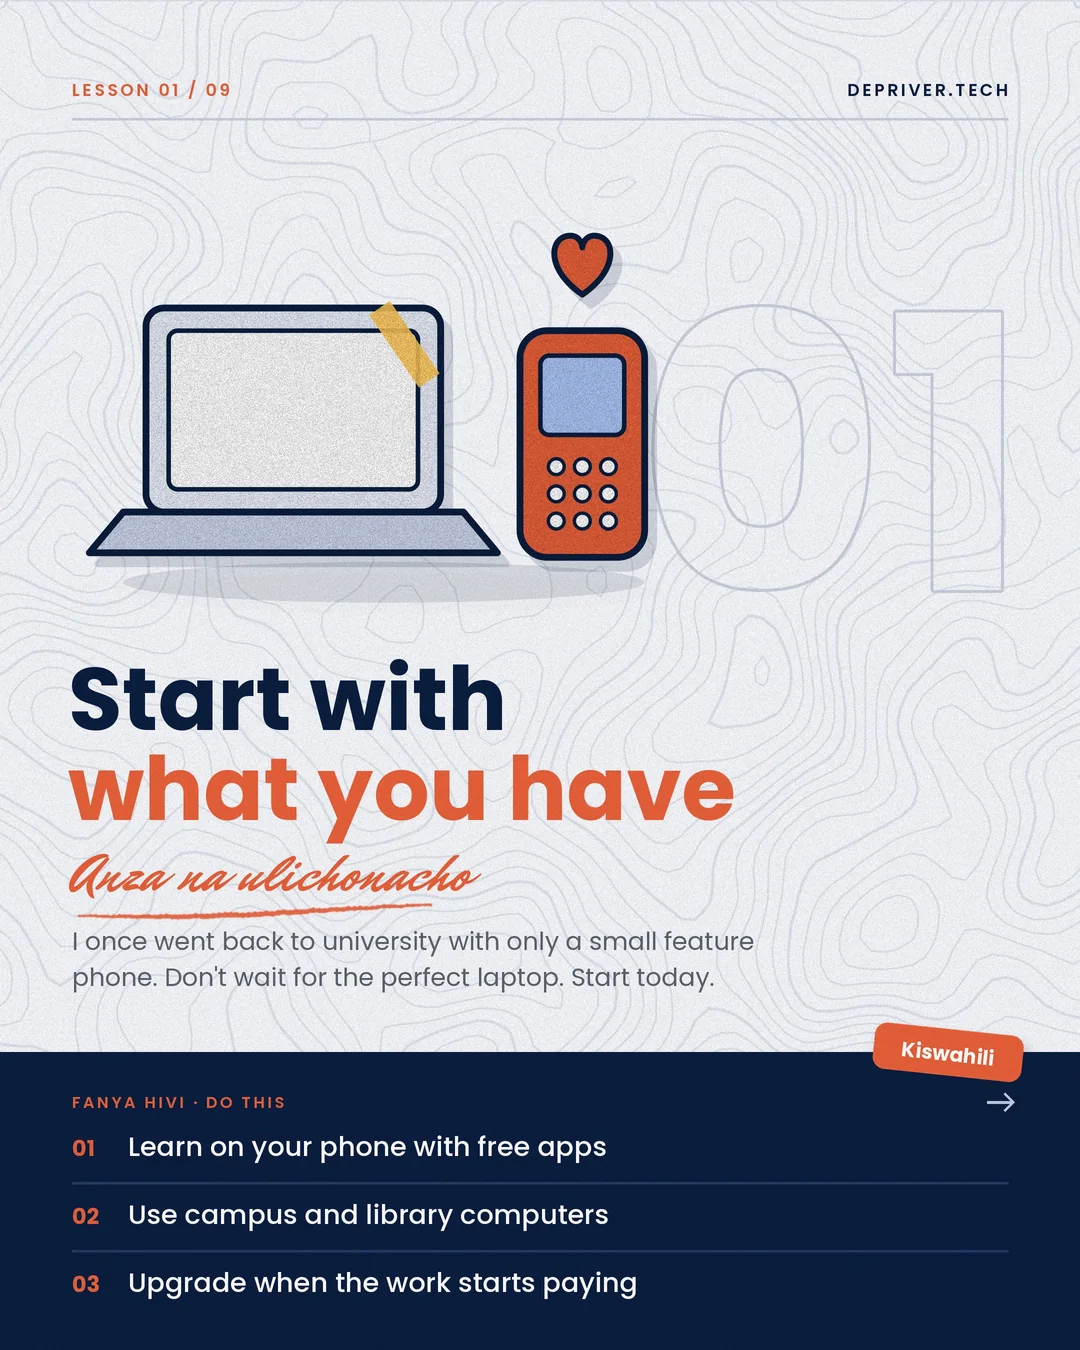
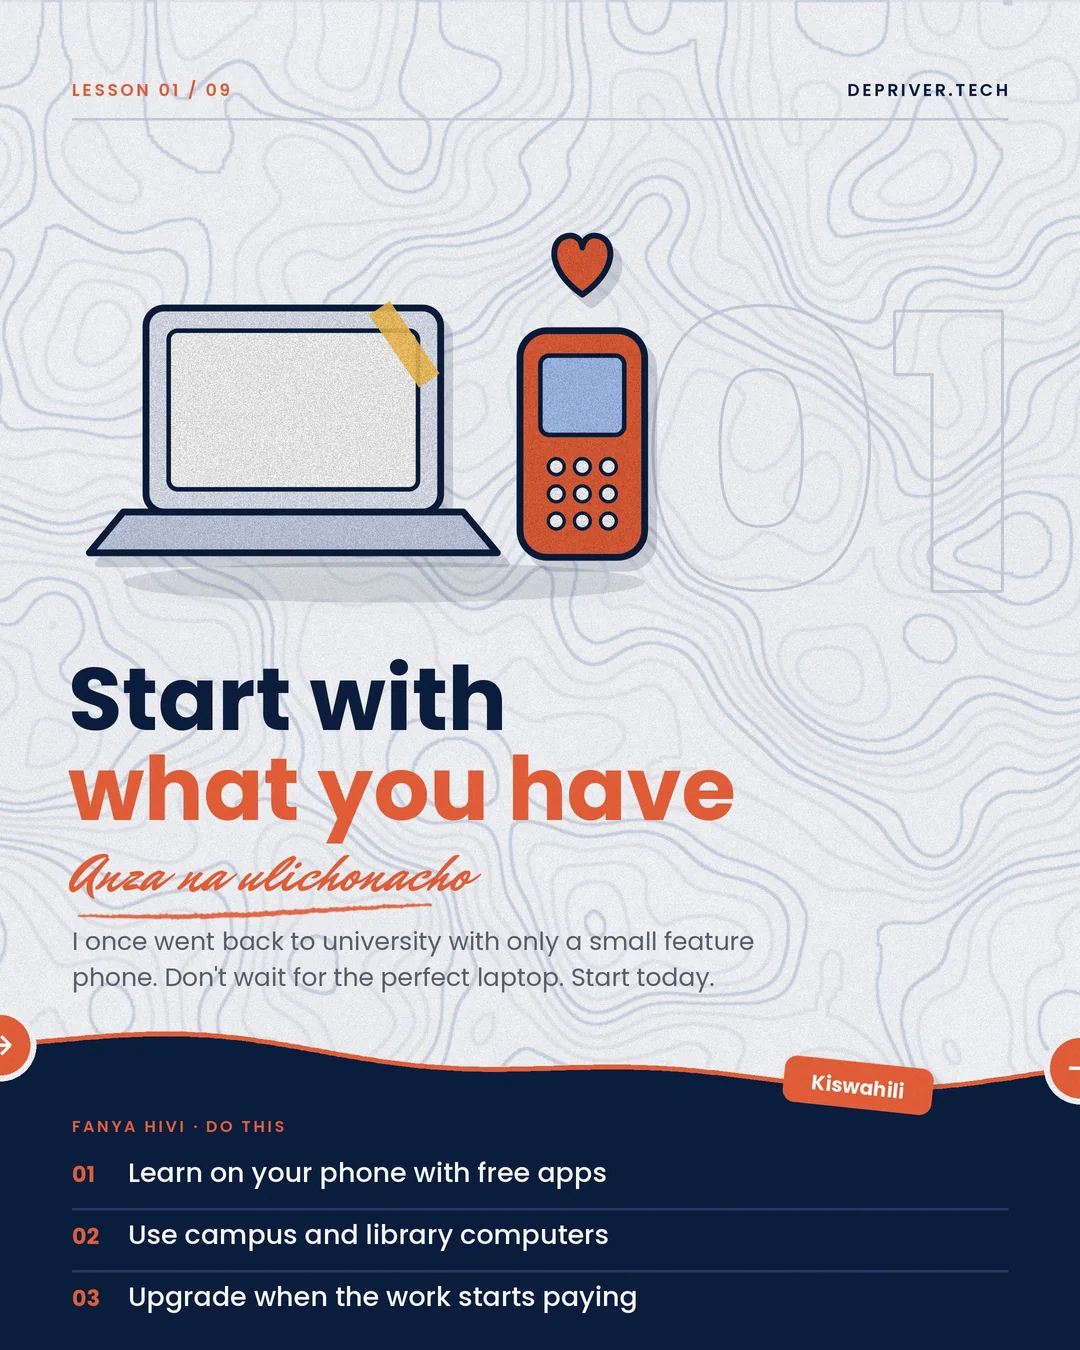
Tech advice carousel: seamless panorama across slides
Continuous contour terrain, one navy wave horizon running through every slide,
and arrow badges centred on each seam so neighbouring slides join up when swiped.

diff --git a/studio/tech-advice-i-learnt-the-hard-way/make.py b/studio/tech-advice-i-learnt-the-hard-way/make.py
@@ -49,17 +49,22 @@ assert len(LESSONS) + 2 == TOTAL
 POST_URL = "depriver.tech/blog/tech-advice-i-learnt-the-hard-way"
 
 
-def page(label_left, label_right="DEPRIVER.TECH"):
+BASE = 1060                                          # the navy horizon (one wave across all slides)
+
+
+def page(n, label_left, label_right="DEPRIVER.TECH"):
     s = Slide()
-    paper(s)
+    panorama_paper(s, n, TOTAL)                      # contour lines continue from slide to slide
     smallcaps(s, M, 96, label_left, 17, ORANGE)
     smallcaps(s, W - M, 96, label_right, 17, NAVY, anchor="right")
     hairline(s, M, W - M, 118, RULE)
     return s
 
 
-def navy_block(s, y0):
-    s.rect(0, y0, W, H, NAVY)
+def horizon(s, n):
+    """Continuous navy wave + seam badges that join neighbouring slides."""
+    navy_wave(s, n, BASE)
+    seam_nodes(s, n, TOTAL, BASE)
 
 
 def arrow(s, x, y, color=WHITE_T, w=3.4, size=12):
@@ -68,16 +73,16 @@ def arrow(s, x, y, color=WHITE_T, w=3.4, size=12):
 
 
 # ── 1 · cover ────────────────────────────────────────────────────────────────────────────────────
-s = page("A field guide · 9 lessons")
+s = page(1, "A field guide · 9 lessons")
 outline_text(s, W + 40, 1130, "9", f(BOLD, 980), stroke=3, color=RULE, anchor="rs")
 for i, (t, c) in enumerate([("Tech advice", NAVY), ("I learnt the", NAVY), ("hard way.", ORANGE)]):
     s.text(M - 6, 300 + i * 124, t, f(BOLD, 122), c)
 s.text(M, 654, "Mambo niliyojifunza kwa njia ngumu", f(SIG, 62), ORANGE)
 swash(s, M + 10, M + 560, 684, ORANGE, 6)
-s.para(M, 760, "Nine lessons from my journey, from a village classroom in Kagera to writing software in Mbeya.", f(REG, 27), 480, 40, GREY)
-navy_block(s, 1170)
-art = print_art("rocket", k(640))
-paste_print(s, art, 400, 1170 - art.height / K + 70)      # laptop sits on, and breaks into, the navy block
+s.para(M, 760, "Nine lessons from my journey, from a village classroom in Kagera to writing software in Mbeya.", f(REG, 27), 380, 40, GREY)
+horizon(s, 1)
+art = print_art("rocket", k(580))
+paste_print(s, art, 470, wave_y(760) - art.height / K + 66)   # laptop sits on, and breaks into, the navy wave
 s.text(M, 1262, "Swipe for all 9", f(SEMI, 30), WHITE_T)
 arrow(s, M + s.width("Swipe for all 9", f(SEMI, 30)) + 34, 1251)
 smallcaps(s, W - M, 1262, "Kwa wote kwenye tech", 16, SOFT, anchor="right")
@@ -88,7 +93,7 @@ s.save(1)
 # ── 2–10 · lessons ───────────────────────────────────────────────────────────────────────────────
 for i, (art_key, t1, t2, sw, body, todo) in enumerate(LESSONS):
     n = i + 2
-    s = page(f"Lesson {i + 1:02d} / 09")
+    s = page(n, f"Lesson {i + 1:02d} / 09")
     outline_text(s, W - M + 20, 590, f"{i + 1:02d}", f(BOLD, 380), stroke=3, color=RULE, anchor="rs")
     art = print_art(art_key, k(680))
     paste_print(s, art, 44, 138)
@@ -102,22 +107,21 @@ for i, (art_key, t1, t2, sw, body, todo) in enumerate(LESSONS):
     swash(s, M + 6, M + min(s.width(sw, f(SIG, sws)) * 0.9, 620), sy + 24, ORANGE, 5, seed=i)
     s.para(M, sy + 60, body, f(REG, 25), 720, 36, GREY)
 
-    top = 1052
-    navy_block(s, top)
-    sticker(s, W - M - 60, top, "Methali" if sw.startswith(("Haba", "Mtu ni", "Usiweke", "Afya")) else "Kiswahili", angle=-6, size=20)
-    smallcaps(s, M, top + 56, "Fanya hivi · Do this", 16, ORANGE)
+    horizon(s, n)
+    tag = "Methali" if sw.startswith(("Haba", "Mtu ni", "Usiweke", "Afya")) else "Kiswahili"
+    sticker(s, W - M - 150, wave_y((n - 1) * W + W - M - 150) - 4, tag, angle=-6, size=20)
+    smallcaps(s, M, BASE + 72, "Fanya hivi · Do this", 16, ORANGE)
     for j, t in enumerate(todo):
-        y = top + 104 + j * 68
+        y = BASE + 122 + j * 62
         s.text(M, y, f"{j + 1:02d}", f(BOLD, 22), ORANGE)
         s.text(M + 56, y, t, f(MED, 27), WHITE_T)
         if j < len(todo) - 1:
             hairline(s, M, W - M, y + 26, (38, 60, 100))
-    arrow(s, W - M - 4, top + 50, SOFT, 3, 11)
     finish(s)
     s.save(n)
 
 # ── 11 · closing ─────────────────────────────────────────────────────────────────────────────────
-s = page("The end · Mwisho")
+s = page(TOTAL, "The end · Mwisho")
 s.text(M - 6, 300, "Keep learning,", f(BOLD, 104), NAVY)
 s.text(M - 6, 410, "keep building.", f(BOLD, 104), ORANGE)
 s.text(M, 500, "Hifadhi, shiriki, tuendelee kujifunza pamoja", f(SIG, 50), ORANGE)
@@ -125,21 +129,21 @@ swash(s, M + 6, M + 600, 526, ORANGE, 5, seed=11)
 rows = [("Save", "Hifadhi kwa baadaye", "Come back to it when you need it."),
         ("Share", "Mtumie rafiki yako", "Send it to someone starting out."),
         ("Comment", "Niambie somo lako", "Which lesson hit home for you?")]
-y = 610
+y = 590
 for j, (a, b, c) in enumerate(rows):
     s.text(M, y + 52, f"{j + 1:02d}", f(BOLD, 24), ORANGE)
     s.text(M + 60, y + 52, a, f(BOLD, 40), NAVY)
     s.text(M + 60 + s.width(a, f(BOLD, 40)) + 18, y + 52, b, f(SIG, 40), ORANGE)
     s.text(M + 60, y + 92, c, f(REG, 24), GREY)
     hairline(s, M, W - M, y + 122, RULE)
-    y += 128
-navy_block(s, 1030)
-smallcaps(s, M, 1094, "Read the full post · Soma zaidi", 17, SOFT)
-s.text(M, 1160, POST_URL, f(BOLD, fit(s, POST_URL, BOLD, 40, W - 2 * M)), WHITE_T)
-hairline(s, M, W - M, 1196, (38, 60, 100))
-s.text(M, 1262, "Questions? Ask my AI assistant", f(REG, 24), SOFT)
-s.text(M + s.width("Questions? Ask my AI assistant", f(REG, 24)) + 18, 1266, "viora", f(SIG, 52), ORANGE)
-smallcaps(s, W - M, 1262, "@_depriver", 18, WHITE_T, anchor="right")
+    y += 124
+horizon(s, TOTAL)
+smallcaps(s, M, BASE + 72, "Read the full post · Soma zaidi", 17, SOFT)
+s.text(M, BASE + 132, POST_URL, f(BOLD, fit(s, POST_URL, BOLD, 40, W - 2 * M)), WHITE_T)
+hairline(s, M, W - M, BASE + 162, (38, 60, 100))
+s.text(M, BASE + 224, "Questions? Ask my AI assistant", f(REG, 24), SOFT)
+s.text(M + s.width("Questions? Ask my AI assistant", f(REG, 24)) + 18, BASE + 228, "viora", f(SIG, 52), ORANGE)
+smallcaps(s, W - M, BASE + 224, "@_depriver", 18, WHITE_T, anchor="right")
 finish(s)
 s.save(TOTAL)
 print("ok")

diff --git a/studio/kit.py b/studio/kit.py
@@ -420,3 +420,77 @@ def finish(s, amount=0.045):
     """Final pass: light paper grain over the whole page."""
     s.im = grain(s.im, amount)
     s.d = ImageDraw.Draw(s.im)
+
+
+# ── panorama: elements that run continuously across carousel slides ─────────────────────────────
+import math
+import random as _random
+
+_FIELDS = {}
+
+
+def _field(total, seed=7):
+    """One wide, low-res height field spanning every slide, so contour lines flow across seams."""
+    if (total, seed) not in _FIELDS:
+        rnd = _random.Random(seed)
+        fw, fh = W * total // 4, H // 4
+        field = None
+        for cells, weight in ((5, 1.0), (11, 0.45), (23, 0.18)):
+            cw_, ch_ = int(cells * 0.8 * total) + 1, cells
+            small = Image.new("L", (cw_, ch_))
+            small.putdata([rnd.randint(0, 255) for _ in range(cw_ * ch_)])
+            layer = small.resize((fw, fh), Image.BICUBIC)
+            field = layer if field is None else Image.blend(field, layer, weight / (1 + weight))
+        _FIELDS[(total, seed)] = ImageOps.autocontrast(field.filter(ImageFilter.GaussianBlur(3)))
+    return _FIELDS[(total, seed)]
+
+
+def panorama_paper(s, n, total, seed=7):
+    """Paper with contour lines that continue from slide n-1 into n and on into n+1."""
+    field = _field(total, seed)
+    fw, pad = W // 4, 12                                   # pad so blurring never creates a seam
+    x0 = (n - 1) * fw
+    crop = field.crop((x0 - pad, 0, x0 + fw + pad, field.height))  # PIL pads outside with black; edges only
+    if n == 1 or n == total:                               # outer edges: mirror-free, just clamp
+        crop = field.crop((max(0, x0 - pad), 0, min(field.width, x0 + fw + pad), field.height))
+    scale = k(W) / fw
+    big = crop.resize((round(crop.width * scale), k(H)), Image.BICUBIC).filter(ImageFilter.GaussianBlur(14))
+    left = round((x0 - max(0, x0 - pad)) * scale)
+    step = 11
+    # detect contour edges on the padded strip, then crop: no artificial edge at the slide border
+    bands = big.point(lambda v: (v // step) * step)
+    edges = bands.filter(ImageFilter.FIND_EDGES).point(lambda v: 255 if v else 0).filter(ImageFilter.MaxFilter(3))
+    edges = edges.filter(ImageFilter.GaussianBlur(2.2)).point(lambda v: min(255, v * 3))
+    major = bands.point(lambda v: 255 if (v // step) % 5 == 0 else 0)
+    edges_major = ImageChops.multiply(edges, major.filter(ImageFilter.MaxFilter(5)))
+    box = (left, 0, left + k(W), k(H))
+    part, edges, edges_major = big.crop(box), edges.crop(box), edges_major.crop(box)
+    bg = Image.new("RGB", part.size, PAPER)
+    bg = Image.composite(Image.new("RGB", part.size, (234, 237, 243)), bg, part.point(lambda v: int(v * 0.35)))
+    bg.paste(Image.new("RGB", part.size, (212, 218, 230)), (0, 0), edges.point(lambda v: v * 120 // 255))
+    bg.paste(Image.new("RGB", part.size, (193, 202, 220)), (0, 0), edges_major.point(lambda v: v * 150 // 255))
+    s.im.paste(bg)
+    s.d = ImageDraw.Draw(s.im)
+
+
+def wave_y(X, base=1060, amp=22, length=1.55, phase=0.6):
+    """Height of the continuous navy horizon at panorama x (1080 px per slide)."""
+    return base + amp * math.sin(2 * math.pi * X / (length * W) + phase) + amp * 0.35 * math.sin(2 * math.pi * X / (0.43 * W))
+
+
+def navy_wave(s, n, base=1060, crest=ORANGE):
+    """Navy block whose top edge is one wave running through every slide, with an orange crest line."""
+    off = (n - 1) * W
+    pts = [(x, wave_y(off + x, base)) for x in range(-6, W + 7, 4)]
+    s.d.polygon([(k(x), k(y)) for x, y in pts] + [(k(W + 6), k(H + 6)), (k(-6), k(H + 6))], fill=NAVY)
+    s.d.line([(k(x), k(y - 1)) for x, y in pts], fill=crest, width=k(5), joint="curve")
+
+
+def seam_nodes(s, n, total, base=1060, r=30):
+    """Arrow badges centred exactly on the seams: half shows on each slide and joins up when you swipe."""
+    for sx in ([0] if n > 1 else []) + ([W] if n < total else []):
+        cy = wave_y((n - 1) * W + sx, base)
+        s.d.ellipse([k(sx - r - 6), k(cy - r - 6), k(sx + r + 6), k(cy + r + 6)], fill=PAPER)
+        s.d.ellipse([k(sx - r), k(cy - r), k(sx + r), k(cy + r)], fill=ORANGE)
+        s.d.line([k(sx - 11), k(cy), k(sx + 10), k(cy)], fill=(255, 255, 255), width=k(3.4))
+        s.d.line([k(sx + 1), k(cy - 9), k(sx + 10), k(cy), k(sx + 1), k(cy + 9)], fill=(255, 255, 255), width=k(3.4), joint="curve")
